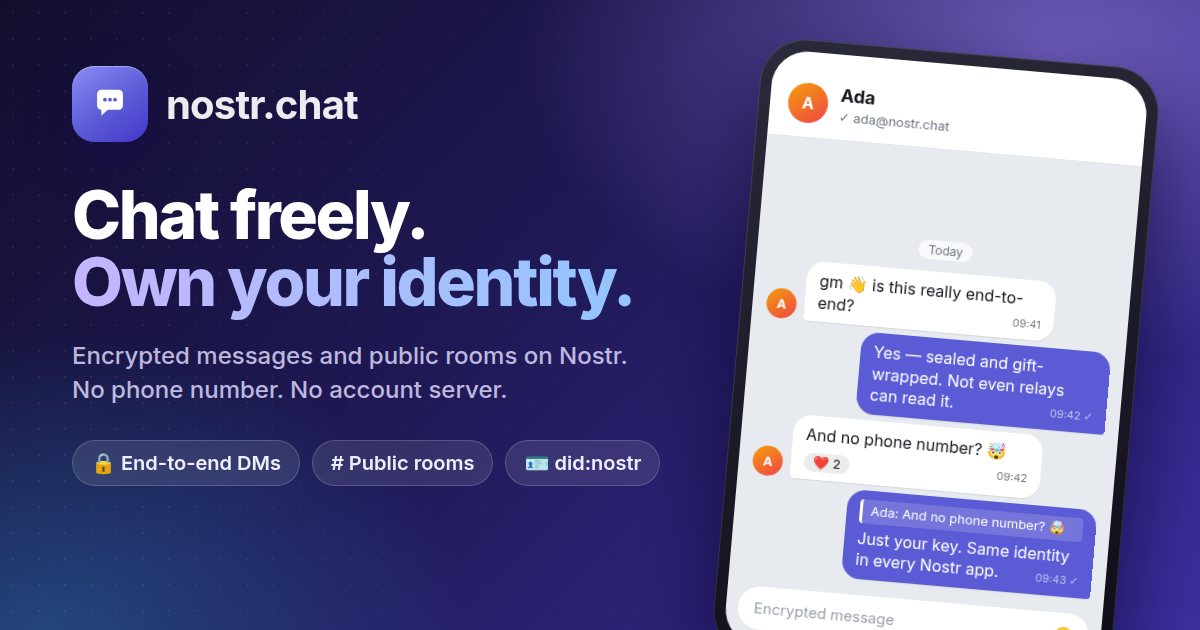
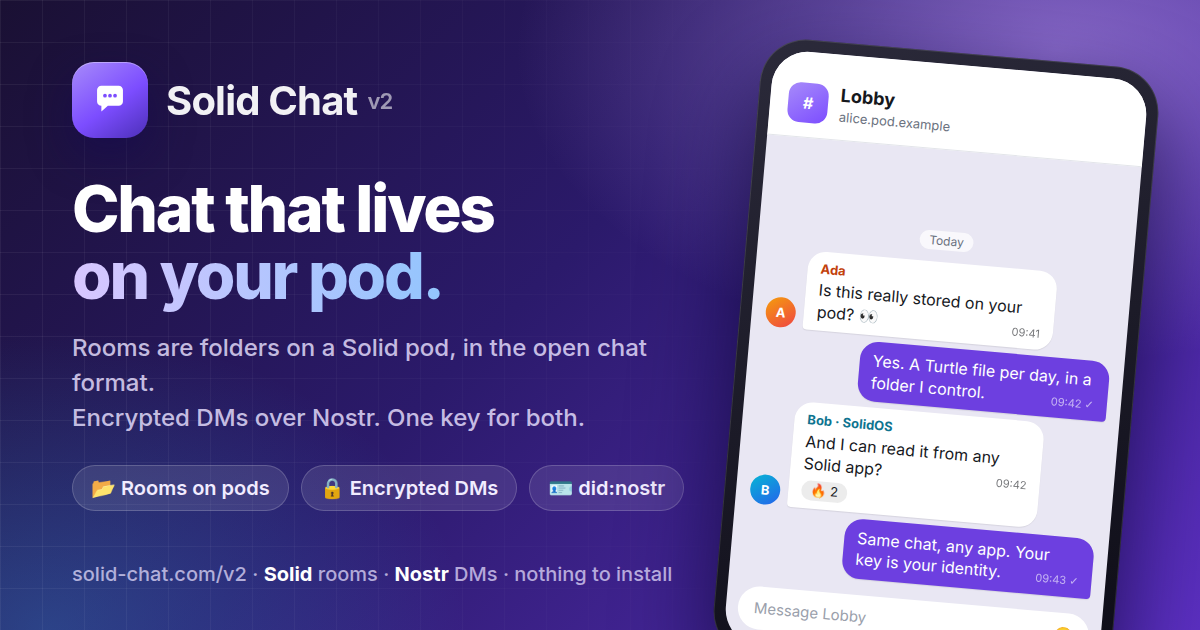
Social card for Solid Chat v2; 404 page Open Graph text

diff --git a/og/card.html b/og/card.html
@@ -1,0 +1,319 @@
+<!doctype html>
+<html>
+  <head>
+    <meta charset="utf-8" />
+    <link rel="preconnect" href="https://fonts.googleapis.com" />
+    <link
+      href="https://fonts.googleapis.com/css2?family=Inter:wght@400;500;600;700;800&display=swap"
+      rel="stylesheet"
+    />
+    <style>
+      * {
+        box-sizing: border-box;
+        margin: 0;
+      }
+      html,
+      body {
+        width: 1200px;
+        height: 630px;
+        overflow: hidden;
+      }
+      body {
+        font-family: Inter, Lato, 'Noto Sans', sans-serif;
+        color: #fff;
+        background:
+          radial-gradient(900px 520px at 88% 8%, rgba(196, 160, 255, 0.55), transparent 60%),
+          radial-gradient(700px 500px at 4% 100%, rgba(56, 189, 248, 0.26), transparent 60%),
+          linear-gradient(135deg, #1a1033 0%, #2b1a6b 45%, #5b2fc0 100%);
+        position: relative;
+      }
+      /* faint folder-grid: the pod */
+      body::before {
+        content: '';
+        position: absolute;
+        inset: 0;
+        background-image:
+          linear-gradient(rgba(255, 255, 255, 0.06) 1px, transparent 1px),
+          linear-gradient(90deg, rgba(255, 255, 255, 0.06) 1px, transparent 1px);
+        background-size: 42px 42px;
+        mask-image: linear-gradient(90deg, #000 0%, transparent 70%);
+      }
+      .left {
+        position: absolute;
+        left: 72px;
+        top: 62px;
+        width: 650px;
+      }
+      .brand {
+        display: flex;
+        align-items: center;
+        gap: 18px;
+      }
+      .mark {
+        width: 76px;
+        height: 76px;
+        border-radius: 22px;
+        background: linear-gradient(145deg, #a78bfa, #7c4dff 55%, #4c2fb8);
+        box-shadow:
+          0 18px 40px rgba(20, 10, 80, 0.55),
+          inset 0 1px 0 rgba(255, 255, 255, 0.35);
+        display: grid;
+        place-items: center;
+      }
+      .wordmark {
+        font-size: 40px;
+        font-weight: 700;
+        letter-spacing: -0.02em;
+        opacity: 0.94;
+      }
+      .wordmark small {
+        font-size: 22px;
+        font-weight: 600;
+        opacity: 0.6;
+        margin-left: 10px;
+        vertical-align: 6px;
+      }
+      h1 {
+        margin-top: 38px;
+        font-size: 64px;
+        line-height: 1.04;
+        font-weight: 800;
+        letter-spacing: -0.035em;
+      }
+      h1 span {
+        background: linear-gradient(90deg, #d8c6ff, #93c5fd);
+        -webkit-background-clip: text;
+        background-clip: text;
+        color: transparent;
+      }
+      p.sub {
+        margin-top: 22px;
+        font-size: 24px;
+        line-height: 1.45;
+        color: rgba(232, 224, 255, 0.84);
+        font-weight: 500;
+      }
+      .chips {
+        display: flex;
+        gap: 12px;
+        margin-top: 30px;
+        flex-wrap: wrap;
+      }
+      .chip {
+        padding: 10px 18px;
+        border-radius: 999px;
+        font-size: 20px;
+        font-weight: 600;
+        background: rgba(255, 255, 255, 0.1);
+        border: 1px solid rgba(255, 255, 255, 0.18);
+        color: #f1ecff;
+      }
+      /* phone */
+      .phone {
+        position: absolute;
+        right: 64px;
+        top: 52px;
+        width: 400px;
+        height: 620px;
+        border-radius: 46px;
+        padding: 12px;
+        background: linear-gradient(160deg, #2b2a3a, #0d0c16);
+        box-shadow:
+          0 40px 90px rgba(5, 0, 40, 0.65),
+          0 0 0 1px rgba(255, 255, 255, 0.12) inset;
+        transform: rotate(5deg);
+      }
+      .screen {
+        width: 100%;
+        height: 100%;
+        border-radius: 36px;
+        overflow: hidden;
+        background: #e9e7f3;
+        color: #16181d;
+        display: flex;
+        flex-direction: column;
+      }
+      .bar {
+        display: flex;
+        align-items: center;
+        gap: 12px;
+        padding: 30px 18px 14px;
+        background: #fff;
+        border-bottom: 1px solid #e3e5ea;
+      }
+      .avatar {
+        width: 40px;
+        height: 40px;
+        border-radius: 50%;
+        display: grid;
+        place-items: center;
+        font-weight: 700;
+        color: #fff;
+        flex: none;
+      }
+      .avatar.room {
+        border-radius: 12px;
+        background: linear-gradient(145deg, #a78bfa, #7c4dff);
+      }
+      .bar b {
+        font-size: 18px;
+        display: block;
+      }
+      .bar small {
+        font-size: 13px;
+        color: #6b7280;
+      }
+      .thread {
+        flex: 1;
+        padding: 16px 14px;
+        display: flex;
+        flex-direction: column;
+        gap: 6px;
+        justify-content: flex-end;
+      }
+      .row {
+        display: flex;
+        align-items: flex-end;
+        gap: 8px;
+      }
+      .row.mine {
+        justify-content: flex-end;
+      }
+      .row .mini {
+        width: 30px;
+        height: 30px;
+        font-size: 13px;
+      }
+      .bubble {
+        position: relative;
+        max-width: 250px;
+        padding: 9px 13px 8px;
+        border-radius: 18px;
+        background: #fff;
+        font-size: 16px;
+        line-height: 1.35;
+        box-shadow: 0 1px 1px rgba(0, 0, 0, 0.08);
+      }
+      .row:not(.mine) .bubble {
+        border-bottom-left-radius: 4px;
+      }
+      .mine .bubble {
+        background: #6d3fe0;
+        color: #fff;
+        border-bottom-right-radius: 4px;
+      }
+      .who {
+        font-size: 13px;
+        font-weight: 700;
+        margin-bottom: 2px;
+        color: #c2410c;
+      }
+      .who.b {
+        color: #0e7490;
+      }
+      .meta {
+        font-size: 11px;
+        opacity: 0.6;
+        margin-left: 8px;
+        float: right;
+        position: relative;
+        top: 6px;
+      }
+      .react {
+        display: inline-block;
+        margin-top: 6px;
+        padding: 1px 9px;
+        border-radius: 999px;
+        background: rgba(127, 127, 127, 0.15);
+        font-size: 13px;
+      }
+      .day {
+        align-self: center;
+        font-size: 12px;
+        color: #6b7280;
+        background: rgba(255, 255, 255, 0.7);
+        padding: 2px 10px;
+        border-radius: 999px;
+        margin-bottom: 6px;
+      }
+      .composer {
+        margin: 0 12px 16px;
+        padding: 12px 16px;
+        border-radius: 22px;
+        background: #fff;
+        color: #9aa0ab;
+        font-size: 15px;
+        display: flex;
+        justify-content: space-between;
+      }
+      .foot {
+        position: absolute;
+        left: 72px;
+        bottom: 44px;
+        font-size: 20px;
+        color: rgba(232, 224, 255, 0.72);
+        font-weight: 500;
+      }
+      .foot b {
+        color: #fff;
+        font-weight: 700;
+      }
+    </style>
+  </head>
+  <body>
+    <div class="left">
+      <div class="brand">
+        <div class="mark">
+          <svg width="46" height="46" viewBox="0 0 64 64" aria-hidden="true">
+            <path
+              d="M14 18a6 6 0 0 1 6-6h24a6 6 0 0 1 6 6v16a6 6 0 0 1-6 6H29l-9 8v-8h0a6 6 0 0 1-6-6z"
+              fill="#fff"
+            />
+            <circle cx="25" cy="26" r="2.6" fill="#7c4dff" />
+            <circle cx="32" cy="26" r="2.6" fill="#7c4dff" />
+            <circle cx="39" cy="26" r="2.6" fill="#7c4dff" />
+          </svg>
+        </div>
+        <div class="wordmark">Solid Chat<small>v2</small></div>
+      </div>
+      <h1>Chat that lives<br /><span>on your pod.</span></h1>
+      <p class="sub">Rooms are folders on a Solid pod, in the open chat format.<br />Encrypted DMs over Nostr. One key for both.</p>
+      <div class="chips">
+        <span class="chip">📂 Rooms on pods</span>
+        <span class="chip">🔒 Encrypted DMs</span>
+        <span class="chip">🪪 did:nostr</span>
+      </div>
+    </div>
+
+    <div class="phone">
+      <div class="screen">
+        <div class="bar">
+          <div class="avatar room">#</div>
+          <div><b>Lobby</b><small>alice.pod.example</small></div>
+        </div>
+        <div class="thread">
+          <div class="day">Today</div>
+          <div class="row">
+            <div class="avatar mini" style="background: linear-gradient(145deg, #f59e0b, #ef4444)">A</div>
+            <div class="bubble"><div class="who">Ada</div>Is this really stored on your pod? 👀<span class="meta">09:41</span></div>
+          </div>
+          <div class="row mine">
+            <div class="bubble">Yes. A Turtle file per day, in a folder I control.<span class="meta">09:42 ✓</span></div>
+          </div>
+          <div class="row">
+            <div class="avatar mini" style="background: linear-gradient(145deg, #06b6d4, #2563eb)">B</div>
+            <div class="bubble">
+              <div class="who b">Bob · SolidOS</div>And I can read it from any Solid app?<span class="meta">09:42</span><br /><span class="react">🔥 2</span>
+            </div>
+          </div>
+          <div class="row mine">
+            <div class="bubble">Same chat, any app. Your key is your identity.<span class="meta">09:43 ✓</span></div>
+          </div>
+        </div>
+        <div class="composer"><span>Message Lobby</span><span>🙂</span></div>
+      </div>
+    </div>
+
+    <div class="foot">solid-chat.com/v2 · <b>Solid</b> rooms · <b>Nostr</b> DMs · nothing to install</div>
+  </body>
+</html>

diff --git a/404.html b/404.html
@@ -9,7 +9,8 @@
     <meta property="og:type" content="website" />
     <meta property="og:site_name" content="Solid Chat" />
     <meta property="og:title" content="Message me on Solid Chat" />
-    <meta property="og:description" content="Private, end-to-end encrypted chat on Nostr. No phone number, no account server." />
+    <meta property="og:image:alt" content="Solid Chat — chat that lives on your pod." />
+    <meta property="og:description" content="Chat rooms on Solid pods and end-to-end encrypted direct messages over Nostr. One key, nothing to install." />
     <meta property="og:image" content="https://solid-chat.com/v2/og-image.png" />
     <meta property="og:image:width" content="1200" />
     <meta property="og:image:height" content="630" />

diff --git a/og/README.md b/og/README.md
@@ -1,0 +1,13 @@
+# Social card
+
+`card.html` is the source of `../og-image.png` (1200×630, used for Open Graph and
+Twitter/X previews). To regenerate after editing it:
+
+```sh
+python3 -m http.server 39901 &   # serve this folder
+chromium --headless=new --hide-scrollbars --window-size=1200,630 \
+  --virtual-time-budget=6000 --screenshot=/tmp/card.png http://127.0.0.1:39901/card.html
+magick /tmp/card.png -strip -define png:compression-level=9 ../og-image.png
+```
+
+The card loads Inter from Google Fonts at render time only; the app itself does not.
